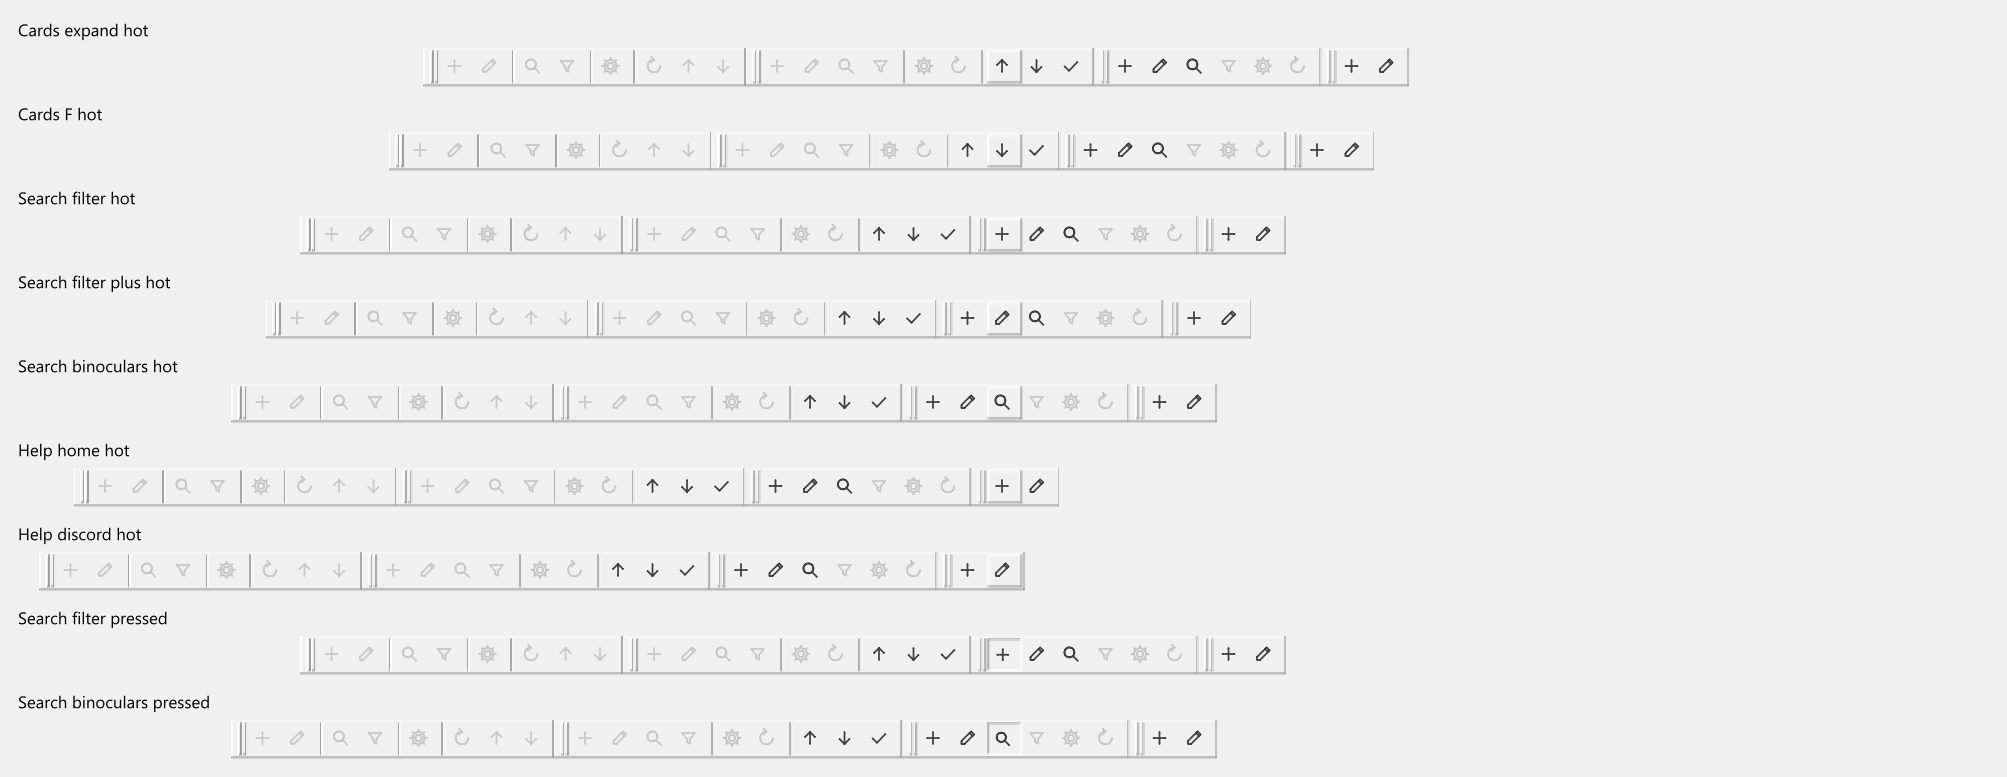
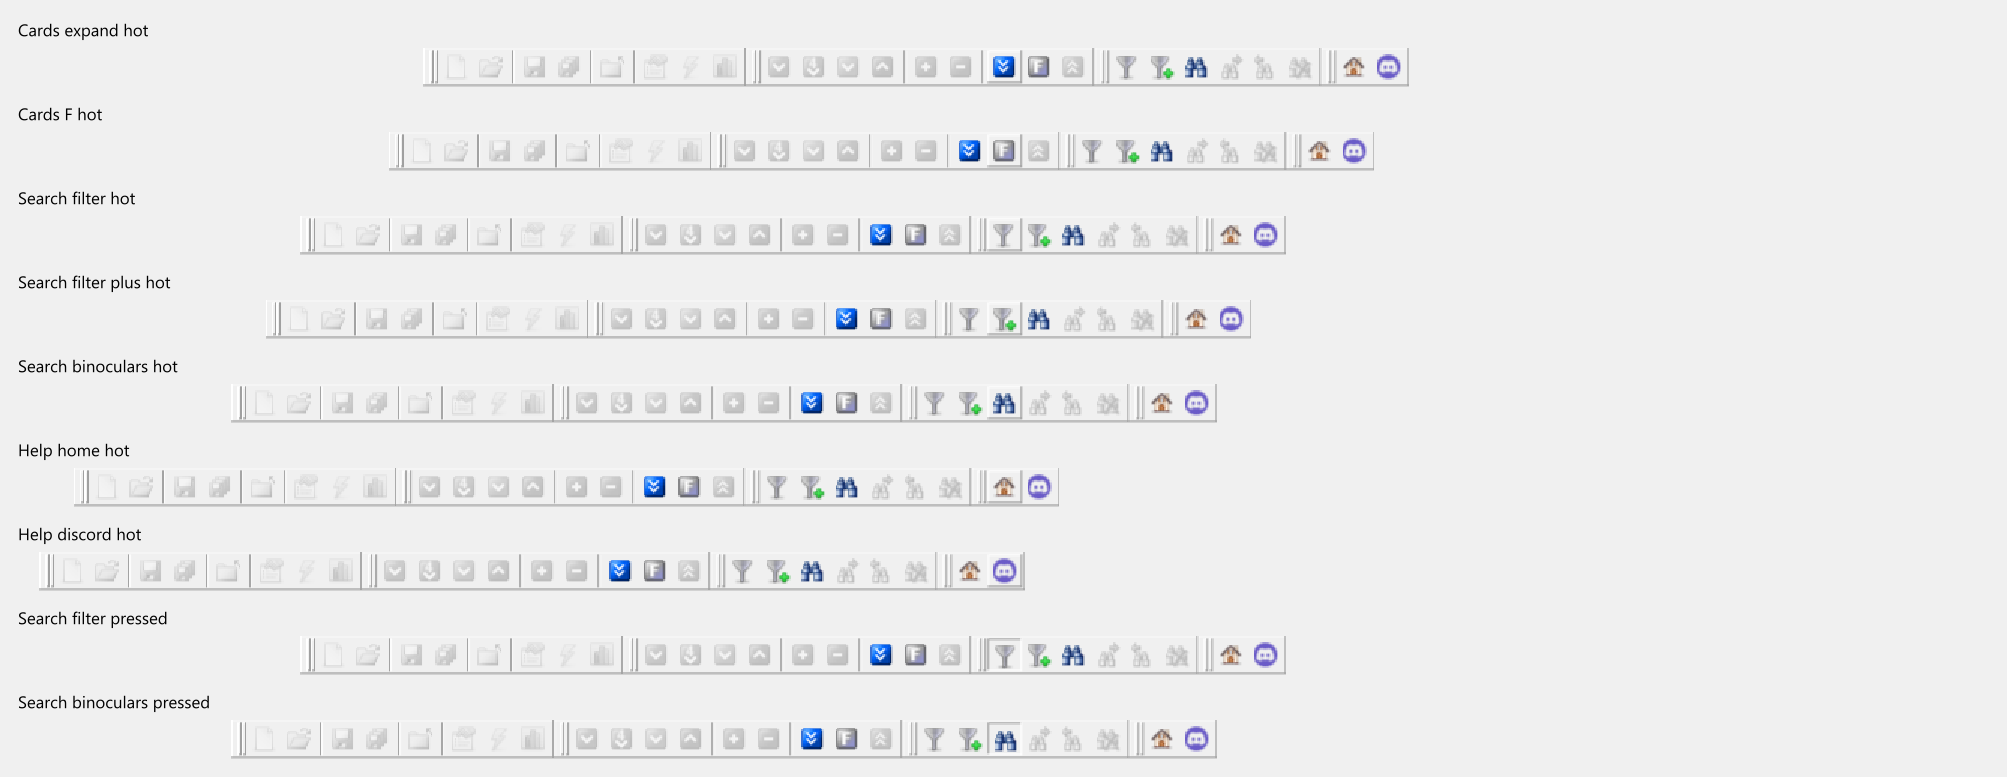
Windows light toolbar button: draw v3's own toolbar bitmaps (25 pictures plus the two enabled Cards ones) as pixel tiles instead of the placeholder glyph
The pictures are cut from the capture by scripts/gen_wintoolicon.py into e.ui.wintoolicon and drawn in the light look only; the flat pixels off against the capture fall from 336 to 0 in toolbar_button_hot, 57 to 0 in toolbar_button_row and 39 to 0 in toolbar_button (glyphs counted).

diff --git a/scripts/gen_wintoolicon.py b/scripts/gen_wintoolicon.py
@@ -1,0 +1,32 @@
+"""Bakes v3's toolbar bitmaps (the 16 x 16 pictures of the dxBar buttons, greyscale where disabled) into lib/e/ui/wintoolicon.e.
+Cut from docs/ui/looks/ref/windows/toolbar_button_row.png (25 pictures, ids 0..24) and toolbar_button_hot.png (the two Cards
+buttons that are enabled there, ids 25 and 26 for buttons 14 and 15). A pixel equal to the bar face under the picture is not painted;
+every other pixel is kept as captured (the face is a flat #F0F0F0 there). Edit this script, not the generated file."""
+from PIL import Image
+L = 'docs/ui/looks/ref/windows/'
+row = Image.open(L + 'toolbar_button_row.png').convert('RGB')
+hot = Image.open(L + 'toolbar_button_hot.png').convert('RGB')
+ORG = [26, 49, 78, 101, 130, 159, 182, 205, 242, 265, 288, 311, 340, 363, 392, 415, 438, 474, 497, 520, 543, 566, 589, 625, 648]
+tiles = []
+for o in ORG:
+    tiles.append((row, o, 36))
+sh = 654 - 384
+for j in (14, 15):
+    tiles.append((hot, ORG[j] + sh, 36))
+vals = []
+for im, x0, y0 in tiles:
+    face = im.getpixel((x0 + 8, y0 + 18))
+    for y in range(17):
+        for x in range(16):
+            p = im.getpixel((x0 + x, y0 + y))
+            vals.append(0 if p == face else 0xFF000000 | p[0] << 16 | p[1] << 8 | p[2])
+dx = ', '.join('%dusize' % (1 if i < 8 else 2) for i in range(len(tiles)))
+body = ', '.join('0x%08Xu32' % v for v in vals)
+n = len(vals)
+open('lib/e/ui/wintoolicon.e', 'w', newline='\n').write(
+    '// GENERATED by scripts/gen_wintoolicon.py from ref/windows/toolbar_button_row.png and toolbar_button_hot.png: v3\'s dxBar button\n'
+    '// pictures, %d tiles of 16 x 17, 0xAARRGGBB, alpha 0 = the bar face. Edit the script, not this file.\n\n'
+    'fn count() -> usize { ret %dusize }\n'
+    '// columns the picture sits right of the button\'s 16 x 16 picture box\n'
+    'fn dx(id: usize) -> usize { let d = [%d]usize{ %s }\n    ret d[id] }\n'
+    'fn atlas() -> [%d]u32 { ret [%d]u32{ %s } }\n' % (len(tiles), len(tiles), len(tiles), dx, n, n, body))
